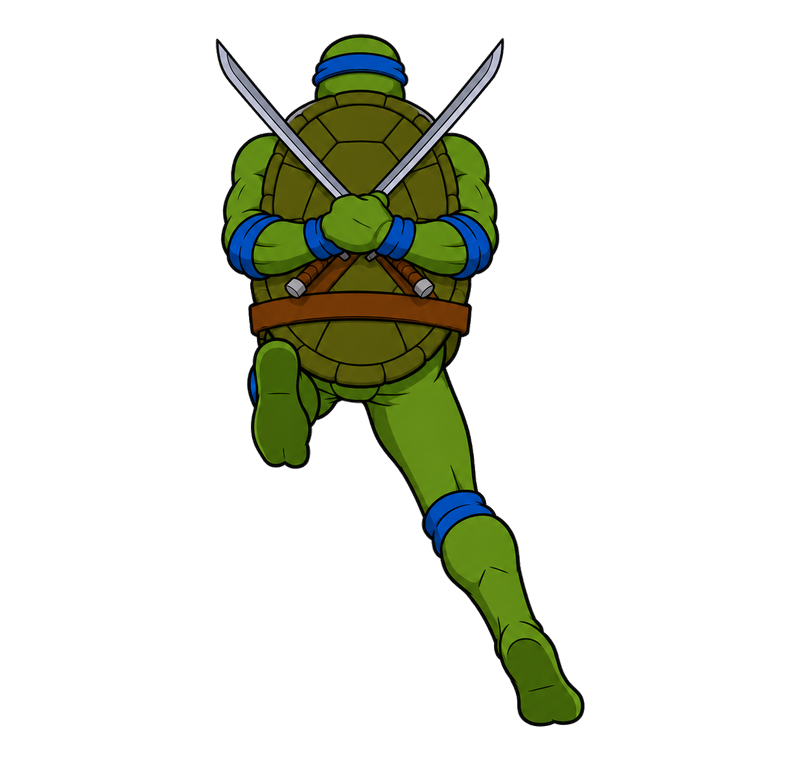
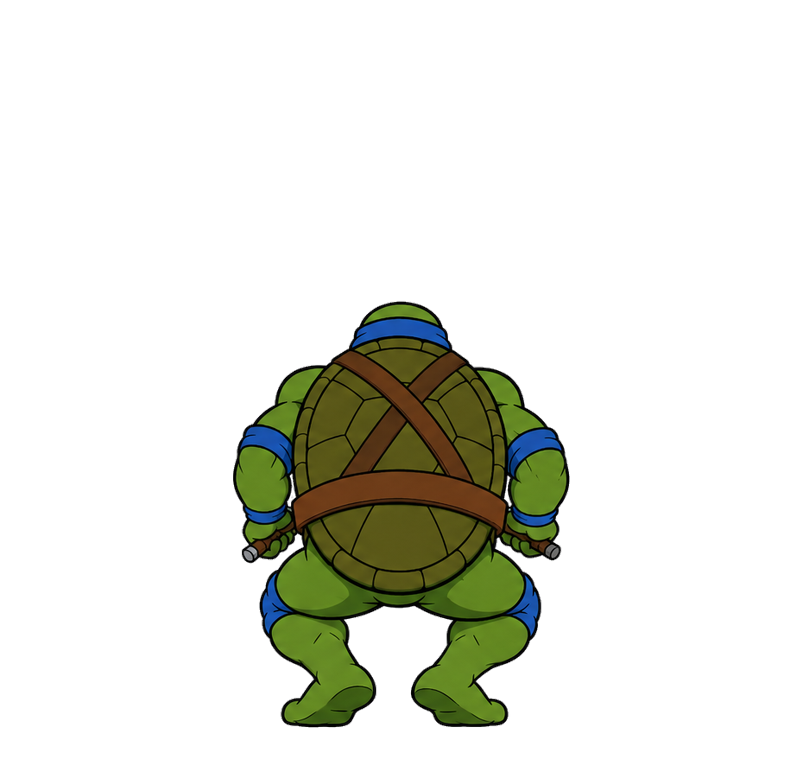
Half Shell Hustle: 3-frame jump launch sequence, remove elevation debug HUD
Ships the final 3-frame jump pose set (squeeze-down -> launching-up ->
main held pose) after several iterations on camera angle, leg pose, and
sword positioning -- the main pose is now anchored on the contact-right
run frame with a stretched torso, head tilted up, and swords crossed but
mostly hidden behind the torso/shell.

Removes the TEMPORARY elevation-debug HUD readout (element, hud.js
function, and its core/main.js call site) -- it served its purpose
during the platform-elevation debugging earlier this session and has
been stable for a while.

Changed region(s): [[0.25, 0.0303, 0.75, 0.9684]]

diff --git a/HalfShellHustle/src/data/playerSprite.js b/HalfShellHustle/src/data/playerSprite.js
@@ -233,15 +233,17 @@ export const ATTACK_SEQUENCES = ATTACK_SEQUENCE_DEFS.map((def) => {
   };
 });
 
-// --- Jump frame (art only -- not wired into core/main.js's frame-debug
-// HUD; entities/player.js reads PLAYER_JUMP_FRAMES[PLAYER_JUMP_FRAMES.length
-// - 1], so this single-entry array is picked up automatically). The game
-// code was simplified to no longer need a 3-frame launch/ascent/peak
-// progression -- direct feedback: just ONE static pose, held for the
-// ENTIRE jump (rise, hold, and fall alike), not just peak hang-time. So
-// PLAYER_JUMP_FRAMES shrank from 3 entries to 1. This section's history
-// below (three prior passes) is kept for lineage/context even though only
-// the final pose ships now.
+// --- Jump frames (art only -- not wired into core/main.js's frame-debug
+// HUD). entities/player.js plays PLAYER_JUMP_FRAMES once, evenly sliced
+// across JUMP_RISE_DURATION, then holds the LAST entry for the rest of the
+// jump (hold and fall). After PASS 3 below shipped, the game code was
+// briefly simplified to show only ONE static pose for the entire jump
+// (PLAYER_JUMP_FRAMES shrank to 1 entry, no art regenerated for it) --
+// direct feedback has since reversed that and asked for a real 3-frame
+// launch progression again, this time with much more specific per-frame
+// direction than PASS 1/2 got (PASS 4 below). player.js's 3-frame
+// rise-slice logic was restored to match. This section's full history is
+// kept for lineage/context even though only PASS 4's 3 frames ship now.
 //
 // PASS 1 (3-frame launch/mid-ascent/peak progression, symmetric forward-V
 // blade grip): one-lineage seeded from leo_run_1.png (primary, camera
@@ -307,14 +309,85 @@ export const ATTACK_SEQUENCES = ATTACK_SEQUENCE_DEFS.map((def) => {
 // direct visual signature of "tucked in close to the body" instead of the
 // old wide flying-V silhouette.
 //
-// Archived: art/originals/leo_jump_pose_source.png (the raw chosen
-// generation before local background-key/scale/placement). The old
-// leo_jump_grid.png (PASS 1/2 lineage) was deleted, not kept, along with
-// the discarded PASS-3 candidates that didn't make the cut -- this file's
-// existing convention of not keeping superseded iterations. art/final/
-// mirrors what shipped to src/assets/.
+// Archived (superseded by PASS 4 below, deleted along with everything else
+// PASS 3 produced per this file's no-accumulation convention):
+// art/originals/leo_jump_pose_source.png.
+//
+// PASS 4 (this one -- real 3-frame progression again, much more precise
+// direct feedback than PASS 1/2 got): direct feedback gave an exact,
+// per-frame breakdown this time -- squeeze-down, launching-up, then a main
+// pose described as "basically close to [leo_run_1.png, the contact-right
+// run frame] but the back should be a bit more stretched, ... heads a
+// little bit up like looking up, but the arms should be in front hidden by
+// the torso and shield, ... crossed but most of them hidden ... showing a
+// little bit from the sides of the head." A real change of direction from
+// PASS 3's approach (which built the main pose off leo_run_0's knee-drive
+// leg pose): this time leo_run_1's CONTACT leg stance is the explicit base
+// for frame 2, kept "essentially as-is."
+//
+// ONE-LINEAGE, single call: rather than PASS 3's dual-reference-plus-
+// chained-edit process, all 3 frames were generated together in ONE
+// gpt-image/1.5-image-to-image call (per the batch-prompt-character-
+// sprite-sets rule) as three side-by-side panels in a single 3:2-aspect
+// image, with leo_run_1.png as the SOLE source_image (flattened onto a
+// real white RGB background first, per KOLBO_ASSET_PIPELINE.md's
+// upload_media gotcha -- re-uploading an RGBA PNG as-is risks the
+// transparent area re-encoding into a non-white noisy fill). The prompt
+// called out leo_run_1's exact pose/build/style as the reference for all
+// three panels' camera angle, described panel 3 (main pose) with the
+// direct-feedback language above, and explicitly required the swords to
+// stay MOSTLY HIDDEN behind the torso/shell with only small blade-tip
+// hints near the head -- not the large visible crossed-blade shape PASS 3
+// ended up with. Landed on the first attempt: no follow-up edit was
+// needed, unlike every prior pass.
+//
+// PLACEMENT -- shared-anchor method, NOT independent per-frame content-
+// bbox scaling (that's the "anchor drift" bug documented at length above
+// in the run-cycle notes: an asymmetric/varying-height pose's bbox center
+// doesn't line up with a sibling frame's the same way, so naively scaling
+// each frame to a fixed content HEIGHT would erase the real height
+// difference between a crouch and an extended launch, or shift the
+// character sideways). Instead, each of the 3 panels was locally
+// white-keyed (KOLBO_ASSET_PIPELINE.md's threshold-245/feather-225
+// cutout), then placed using two anchors that are physically stable across
+// a launch progression -- unlike the full-body bbox, which isn't:
+//   - HEADBAND WIDTH as the scale anchor: the blue headband is present,
+//     roughly constant-sized, and easy to isolate by color in all 3 poses
+//     (unlike full-character-height, which SHOULD differ -- crouched is
+//     shorter, launching is taller, that's the point). Each frame was
+//     scaled so its own headband width matches leo_run_0/1's headband
+//     width in their shared 800x760 canvas (96px) -- confirmed beforehand
+//     that all 3 raw panels already had near-identical headband widths
+//     (111-114px in source-panel space), i.e. the single generation call
+//     already held character scale consistent on its own; per-frame scale
+//     was still computed independently off each frame's own measurement
+//     rather than one shared number, since normalizing head size is the
+//     goal, not blindly reusing one frame's factor.
+//   - HEADBAND-CENTER X as the horizontal anchor (same "top-band centroid"
+//     principle as the run cycle's shell-centroid alignment above, just
+//     using the headband specifically since it's a tighter, more reliably
+//     detectable landmark than a generic top-45%-of-bbox region) -- each
+//     frame's headband center was placed at the shared canvas center,
+//     x=400.
+//   - GROUND LINE at canvas y=728 for every frame's bbox BOTTOM -- matches
+//     leo_run_0.png/leo_run_1.png/the old leo_jump_0.png's own content
+//     bottom exactly, so a foot-plant reads at the same height turn to
+//     turn instead of popping vertically on the swap.
+// Net effect: all 3 frames share one 800x760 canvas, one horizontal
+// anchor, and one ground line, while still legitimately growing taller
+// frame to frame as the launch extends -- the crouch is visibly shortest,
+// frame 2 visibly tallest, exactly as a real launch should read, without
+// any of it coming from inconsistent/independent cropping.
+//
+// Archived: art/originals/leo_jump_grid.png (the raw 3-panel generation
+// before per-panel white-key/scale/placement, matching the existing
+// leo_spin_grid.png / leo_turn_grid.png / leo_lunge_grid.png naming
+// convention for a batch source). art/final/ mirrors what shipped to
+// src/assets/.
 export const PLAYER_JUMP_FRAMES = [
-  { file: 'leo_jump_0.png' }, // single held pose -- launch, hold, AND descent
+  { file: 'leo_jump_0.png' }, // squeeze-down
+  { file: 'leo_jump_1.png' }, // launching-up
+  { file: 'leo_jump_2.png' }, // main pose -- holds for the rest of the jump
 ].map(({ file }) => ({
   url: new URL(`../assets/${file}`, import.meta.url).href,
 }));

diff --git a/HalfShellHustle/src/entities/player.js b/HalfShellHustle/src/entities/player.js
@@ -49,8 +49,6 @@ const GROUND_Y = SPRITE_HEIGHT / 2;
 const LEAN_MAX = 0.22; // radians, cosmetic billboard roll while lane-shifting
 
 const JUMP_TOTAL_DURATION = JUMP_RISE_DURATION + JUMP_HOLD_DURATION + JUMP_FALL_DURATION;
-// See the jump-pose EXPERIMENT comment in updatePlayer's jump branch below.
-const JUMP_POSE_RUN_FRAME_INDEX = 1; // contact-right
 
 // Ease-out quad rise (fast liftoff, decelerating into the hold), flat hold
 // at JUMP_HEIGHT, ease-IN CUBIC fall -- direct feedback went through a
@@ -234,21 +232,25 @@ export function updatePlayer(player, dt, platformField) {
 
   if (player.jumpElapsed !== null) {
     // Jump pose overrides the run cycle entirely (own frame set, no run-
-    // frame xOffset bob) -- just ONE held pose for the whole jump (rise,
-    // hold, AND fall alike), no per-phase frame cycling. EXPERIMENT (direct
-    // feedback): reusing an existing run-cycle frame instead of data/
-    // playerSprite.js's dedicated PLAYER_JUMP_FRAMES -- tried knee-drive
-    // (index 0) first, now trying the OTHER kind, contact-right (index 1).
-    // Swap back to PLAYER_JUMP_FRAMES (still imported/preloaded above,
-    // untouched) if the custom art wins out. Landing hands back to the run
-    // cycle exactly where frameIndex/frameTimer were left (frozen, not
-    // reset, since neither advances in this branch) -- reads as running
-    // pausing for the jump and picking back up, not restarting.
-    // startPlayerAttack no-ops while this branch is active (see its own
-    // comment) -- this pose is what a mid-air kill shows.
-    if (player.jumpFrameIndex !== JUMP_POSE_RUN_FRAME_INDEX) {
-      player.jumpFrameIndex = JUMP_POSE_RUN_FRAME_INDEX;
-      player.sprite.material.map = getTexture(PLAYER_RUN_FRAMES[JUMP_POSE_RUN_FRAME_INDEX].url);
+    // frame xOffset bob) -- data/playerSprite.js's PLAYER_JUMP_FRAMES plays
+    // through once during the rise (a launch-off sequence: squeeze-down,
+    // launching-up, then the main held pose), sliced evenly across
+    // JUMP_RISE_DURATION; the LAST frame (the main pose) then just stays
+    // showing for the rest of the jump (hold AND, for now, the fall too).
+    // Landing hands back to the run cycle exactly where frameIndex/
+    // frameTimer were left (frozen, not reset, since neither advances in
+    // this branch) -- reads as running pausing for the jump and picking
+    // back up, not restarting. startPlayerAttack no-ops while this branch
+    // is active (see its own comment) -- this pose is what a mid-air kill
+    // shows.
+    const riseT = Math.min(player.jumpElapsed / JUMP_RISE_DURATION, 1);
+    const jumpFrameIndex = Math.min(
+      Math.floor(riseT * PLAYER_JUMP_FRAMES.length),
+      PLAYER_JUMP_FRAMES.length - 1,
+    );
+    if (jumpFrameIndex !== player.jumpFrameIndex) {
+      player.jumpFrameIndex = jumpFrameIndex;
+      player.sprite.material.map = getTexture(PLAYER_JUMP_FRAMES[jumpFrameIndex].url);
     }
     player.sprite.position.x = player.laneX;
   } else if (player.attacking) {

diff --git a/HalfShellHustle/src/core/main.js b/HalfShellHustle/src/core/main.js
@@ -23,7 +23,7 @@ import {
 } from '../entities/enemy.js';
 import {
   createPlatformField, resetPlatformField, spawnPlatform, updatePlatformField,
-  checkPlatformKillBarrierHit, getPlayerElevationAt, isPlatformLaneBlocked,
+  checkPlatformKillBarrierHit, isPlatformLaneBlocked,
 } from '../entities/platform.js';
 import { createSpawnerState, resetSpawner, updateSpawner } from '../systems/spawner.js';
 import { createGameState, restartToRunning, triggerGameOver } from './gameState.js';
@@ -378,16 +378,6 @@ function boot() {
     // elevationY rides up with the player on an elevated platform stretch
     // (entities/platform.js) so the camera keeps the same relative framing.
     updateCameraRig(cameraRig, player.laneX, player.elevationY);
-
-    // TEMPORARY debug readout (index.html's #elevation-debug) -- live
-    // numbers, kept from the earlier diagnosis pass. Display-only, no
-    // gameplay effect.
-    hud.updateElevationDebug(
-      `lane ${player.laneIndex}  elevY ${player.elevationY.toFixed(2)}  fallV ${player.elevationVelocity.toFixed(2)}\n`
-      + `sprite.y ${player.sprite.position.y.toFixed(2)}  scale ${player.sprite.scale.x.toFixed(2)}x${player.sprite.scale.y.toFixed(2)}\n`
-      + `camera.y ${camera.position.y.toFixed(2)}  camera.z ${camera.position.z.toFixed(2)}\n`
-      + `jump ${player.jumpElapsed === null ? 'no' : player.jumpElapsed.toFixed(2)}  playerElev ${getPlayerElevationAt(platformField, player.laneIndex, player.sprite.position.z, player.jumpElapsed !== null).toFixed(2)}`,
-    );
 
     renderer.render(scene, camera);
   }

diff --git a/HalfShellHustle/src/ui/hud.js b/HalfShellHustle/src/ui/hud.js
@@ -12,7 +12,6 @@ const gameoverEl = document.getElementById('gameover-overlay');
 const finalDistanceEl = document.getElementById('final-distance');
 const pausedBadgeEl = document.getElementById('paused-badge');
 const frameDebugEl = document.getElementById('frame-debug');
-const elevationDebugEl = document.getElementById('elevation-debug');
 
 export function updateDistance(meters) {
   distanceEl.textContent = `${Math.floor(meters)}m`;
@@ -26,11 +25,6 @@ export function updateScore(points) {
 // TEMPORARY: see index.html's #frame-debug comment.
 export function updateFrameDebug(text) {
   frameDebugEl.textContent = text;
-}
-
-// TEMPORARY: see index.html's #elevation-debug comment.
-export function updateElevationDebug(text) {
-  elevationDebugEl.textContent = text;
 }
 
 export function showGameOver(meters) {

diff --git a/HalfShellHustle/index.html b/HalfShellHustle/index.html
@@ -90,14 +90,6 @@
              border-radius:8px;font:600 15px system-ui,-apple-system,Segoe UI,Roboto,sans-serif;
              white-space:nowrap;"></div>
 
-        <!-- TEMPORARY debug readout: live elevation/camera/jump numbers,
-             diagnosing the "player looks huge/mispositioned mid-air onto a
-             lane climb" report -- display-only, no gameplay effect. Remove
-             once that's tracked down. -->
-        <div id="elevation-debug" style="position:absolute;bottom:12px;left:12px;
-             z-index:9999;background:rgba(20,20,40,0.72);color:#eafcff;padding:6px 14px;
-             border-radius:8px;font:600 13px/1.5 system-ui,-apple-system,Segoe UI,Roboto,sans-serif;
-             white-space:pre;"></div>
       </div>
 
       <div id="gameover-overlay" class="overlay hidden">
